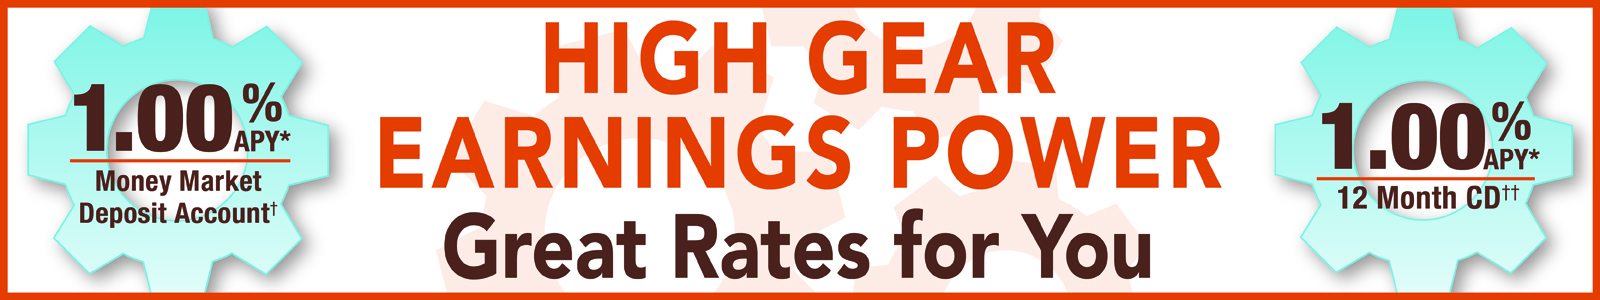
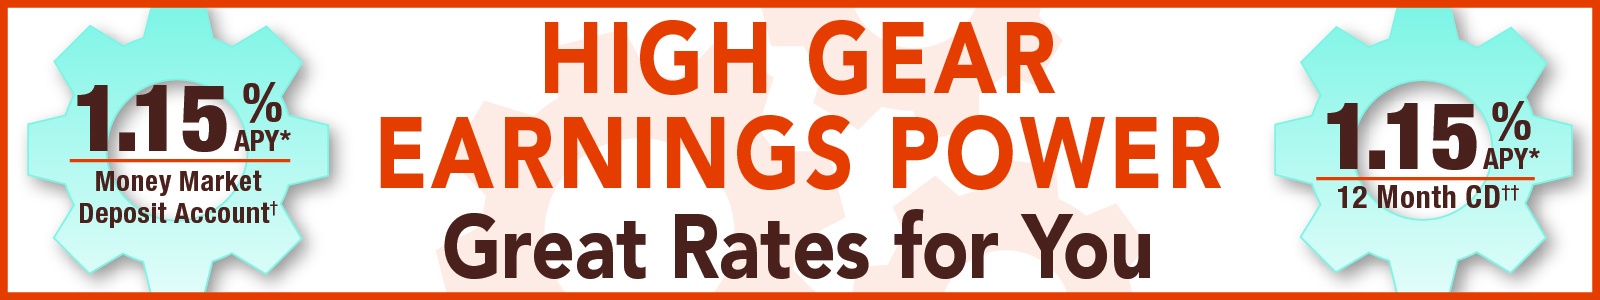
changes to MM CD rates and graphics

diff --git a/savings.html b/savings.html
@@ -139,7 +139,7 @@
               </div>
             </div><!-- row -->
             <div class="row spacer">
-	        	 <p class="small para-margin"><sup>*</sup>Annual Percentage Yield (APY) <sup>†</sup>Money Market Deposit account: Promotional rate of 1.00% APY on all tiers for new accounts effective as of 09/12/16 and guaranteed for the first 210 days after account opening.  Offer limited to minimum deposit of $100.00 and a maximum of $250,000.00 of new money not currently on deposit with CIBM Bank. After 210 Day introductory period, interest rate on your account is subject to change at any time. As of 9/1/16 Personal Money Market balances of $0.00-$9,999.99 (.10% APY); $10,000.00-$24,999.99 (.10% APY); $25,000.00-$49,999.99 (.16% APY); $50,000.00-$99,999.99 (.20% APY); $100,000.00 and above (.20% APY).  Monthly fee $2.00 per debit if $1,000.00 minimum balance not maintained. As of 9/1/16 Personal Index Money Market balances of $0.00 - $24,999.99 (.10% APY); $25,000.00 - $99,999.99 (.20% APY); $100,000.00 and above (.23% APY). Monthly Fee $15.00 service charge if $25,000.00 minimum balance not maintained or maintain a $2,500.00 minimum balance in a checking or NOW account. Fees may reduce earnings. Accounts closed within 6 months of opening date subject to a $25.00 closing fee <sup>††</sup>12 Month Certificate of Deposit & IRA: Promotional rate of 1.00% (APY) effective as of 9/12/16 and guaranteed for the term of the account. Offer limited to minimum opening deposit of $2,500.00 and a maximum of $250,000.00 of new money not currently on deposit with CIBM Bank. Withdrawals made prior to maturity may be subject to an early withdrawal penalty. Offer not available in combination with any other offer.</p>
+	        	 <p class="small para-margin"><sup>*</sup>Annual Percentage Yield (APY) <sup>†</sup>Money Market Deposit account: Promotional rate of 1.15% APY on all tiers for new accounts effective as of 02/21/17 and guaranteed for the first 182 days after account opening. Promotional rate offered on $10,000.00 or more of new money not currently on deposit with CIBM Bank. Minimum opening deposit of $100.00 and a maximum of $250,000.00.  After 182 Day introductory period, interest rate on your account is subject to change at any time. As of 02/09/17 Personal Money Market balances of $0.00-$9,999.99 (.10% APY); $10,000.00-$24,999.99 (.10% APY); $25,000.00-$49,999.99 (.16% APY); $50,000.00-$99,999.99 (.20% APY); $100,000.00 and above (.20% APY). Monthly fee $2.00 per debit if $1,000.00 minimum balance not maintained. As of 02/09/17 Personal Index Money Market balances of $0.00 - $24,999.99 (.10% APY); $25,000.00 - $99,999.99 (.20% APY); $100,000.00 and above (.23% APY). Monthly Fee $15.00 service charge if $25,000.00 minimum balance not maintained or maintain a $2,500.00 minimum balance in a checking or NOW account. Fees may reduce earnings. Accounts closed within 6 months of opening date subject to a $25.00 closing fee. <sup>††</sup>12 Month Certificate of Deposit & IRA: Promotional rate of 1.15% (APY) effective as of 02/21/17 and guaranteed for the term of the account. Offer limited to $10,000.00 or more of new money not currently on deposit with CIBM Bank. Minimum opening deposit of $2,500.00 and a maximum of $250,000.00. Withdrawals made prior to maturity may be subject to an early withdrawal penalty. Offer not available in combination with any other offer.</p>
             </div><!-- row -->
             <div class="row spacer">
               <div class="col-md-6">
